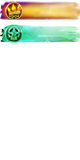
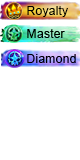
flairs

Changed region(s): [[0.0, 0.2812, 1.0, 0.4375], [0.325, 0.0312, 0.85, 0.125], [0.325, 0.1562, 0.8, 0.25]]

diff --git a/CSS/Stylesheet.css b/CSS/Stylesheet.css
@@ -1990,7 +1990,6 @@ div.tagline > .flair-hidden {
     background-image: url(%%flairs%%);
     background-repeat: no-repeat;
     border: none;
-    border-radius: 6px;
     color: #5f5f5f !important;
     font-weight: bold;
     height: 20px;
@@ -2005,7 +2004,7 @@ div.tagline > .flair-hidden {
 
 .flair-royalty {
   background-color: rgba(226, 226, 226, 0);
-  background-position-y: 5px;
+  background-position-y: 3px;
 }
 
 
@@ -2013,25 +2012,13 @@ div.tagline > .flair-hidden {
 
 .flair-master {
   background-color: rgba(226, 226, 226, 0);
-  background-position-y: -25px;
+  background-position-y: -20px;
 }
 /*Diamond*/
 
-.flair.flair-diamond:after {
-    content: "Diamond";
-    height: 12px;
-    width: auto;
-    padding-top: 4px;
-    padding-bottom: 4px;
-    padding-left: 27px;
-    padding-right: 4px;
-    display: inline-block;
-    background-image: url(%%ranksheet%%);
-    background-position: -1px -84px;
-    background-size: 25px 150px;
-    background-repeat: no-repeat;
-    vertical-align: middle;
-    margin-left: 1px;
+.flair-diamond {
+  background-color: rgba(226, 226, 226, 0);
+  background-position-y: -45px;
 }
 /*Platinum*/
 
